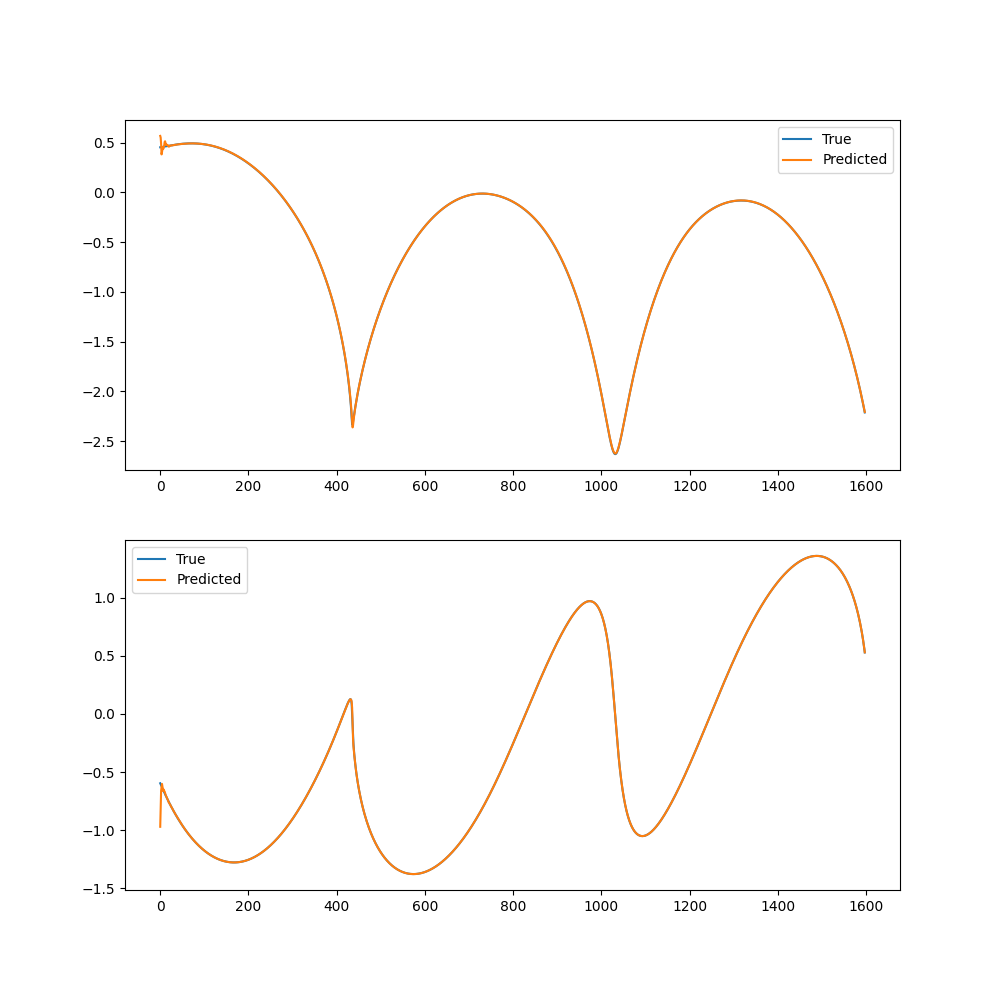
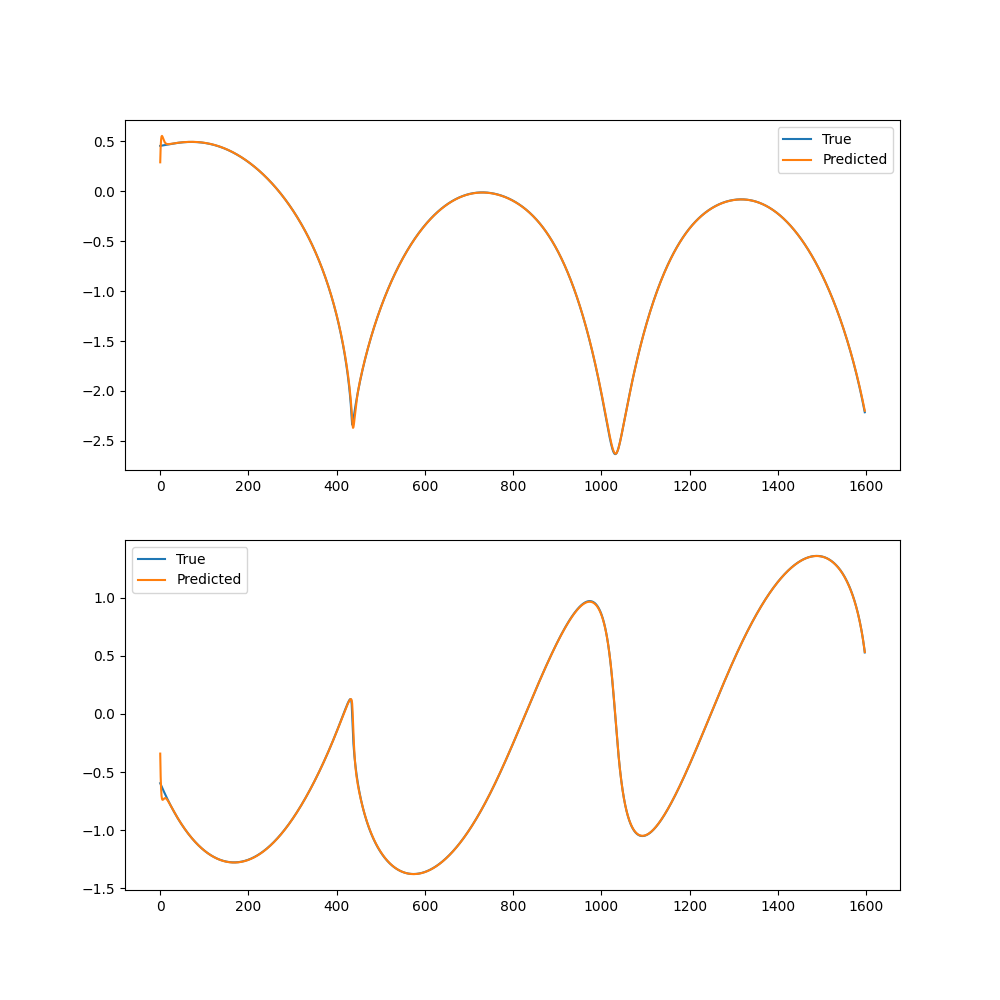
Leaking rate & Connectivity

diff --git a/Library/ridge.py b/Library/ridge.py
@@ -14,13 +14,14 @@ torch.manual_seed(0)
 
 class ESNReservoir(nn.Module):
     def __init__(self, input_size, reservoir_size, output_size, pred_len, spectral_radius=0.90, sparsity=0.1,
-                 ridge_alpha=0.03):
+                 ridge_alpha=0.03, leaking_rate=1.0, connectivity=0.1):
         super(ESNReservoir, self).__init__()
         self.input_size = input_size
         self.reservoir_size = reservoir_size
         self.output_size = output_size
         self.pred_len = pred_len
         self.ridge_alpha = ridge_alpha
+        self.leaking_rate = leaking_rate
 
         # Input weights
         self.Win = nn.Parameter(torch.randn(reservoir_size, input_size) * 0.1, requires_grad=False)
@@ -28,7 +29,7 @@ class ESNReservoir(nn.Module):
         # Reservoir weights
         W = torch.randn(reservoir_size, reservoir_size)
 
-        # Apply sparsity
+        # Apply sparsity and connectivity
         mask = (torch.rand(reservoir_size, reservoir_size) < sparsity).float()
         W *= mask
 
@@ -36,6 +37,10 @@ class ESNReservoir(nn.Module):
         eigenvalues = torch.linalg.eigvals(W)
         max_eigenvalue = torch.max(torch.abs(eigenvalues))
         W *= spectral_radius / max_eigenvalue
+
+        # Apply connectivity
+        conn_mask = (torch.rand(reservoir_size, reservoir_size) < connectivity).float()
+        W *= conn_mask
 
         self.W = nn.Parameter(W, requires_grad=False)
 
@@ -52,7 +57,8 @@ class ESNReservoir(nn.Module):
         states = []
         for t in range(input_len):
             input = x[0, t, :].unsqueeze(0)
-            h = F.tanh(self.Win @ input.T + self.W @ h.T).T
+            h_new = F.tanh(self.Win @ input.T + self.W @ h.T).T
+            h = (1 - self.leaking_rate) * h + self.leaking_rate * h_new
             states.append(h)
 
         states = torch.cat(states, dim=0)
@@ -72,7 +78,8 @@ class ESNReservoir(nn.Module):
         with torch.no_grad():
             for t in range(input_len):
                 input = X[0, t, :].unsqueeze(0)
-                h = F.tanh(self.Win @ input.T + self.W @ h.T).T
+                h_new = F.tanh(self.Win @ input.T + self.W @ h.T).T
+                h = (1 - self.leaking_rate) * h + self.leaking_rate * h_new
                 states.append(h)
 
         states = torch.cat(states, dim=0).cpu().numpy()
@@ -82,8 +89,6 @@ class ESNReservoir(nn.Module):
         # Perform ridge regression
         ridge = Ridge(alpha=self.ridge_alpha)
         ridge.fit(states, y)
-        # lasso = Lasso(alpha=self.ridge_alpha)
-        # lasso.fit(states, y)
         self.Wout = torch.tensor(ridge.coef_, dtype=torch.float32).to(device)
         self.Wout_bias = torch.tensor(ridge.intercept_, dtype=torch.float32).to(device)
 
@@ -107,7 +112,7 @@ nb_generations = 300
 seed_timesteps = 300
 
 
-esn = ESNReservoir(input_size, reservoir_size, output_size, pred_len)
+esn = ESNReservoir(input_size, reservoir_size, output_size, pred_len, spectral_radius=0.9, sparsity=0.1, leaking_rate=0.3, connectivity=0.1, ridge_alpha=0.03)
 
 # X = lorenz(10000)
 
